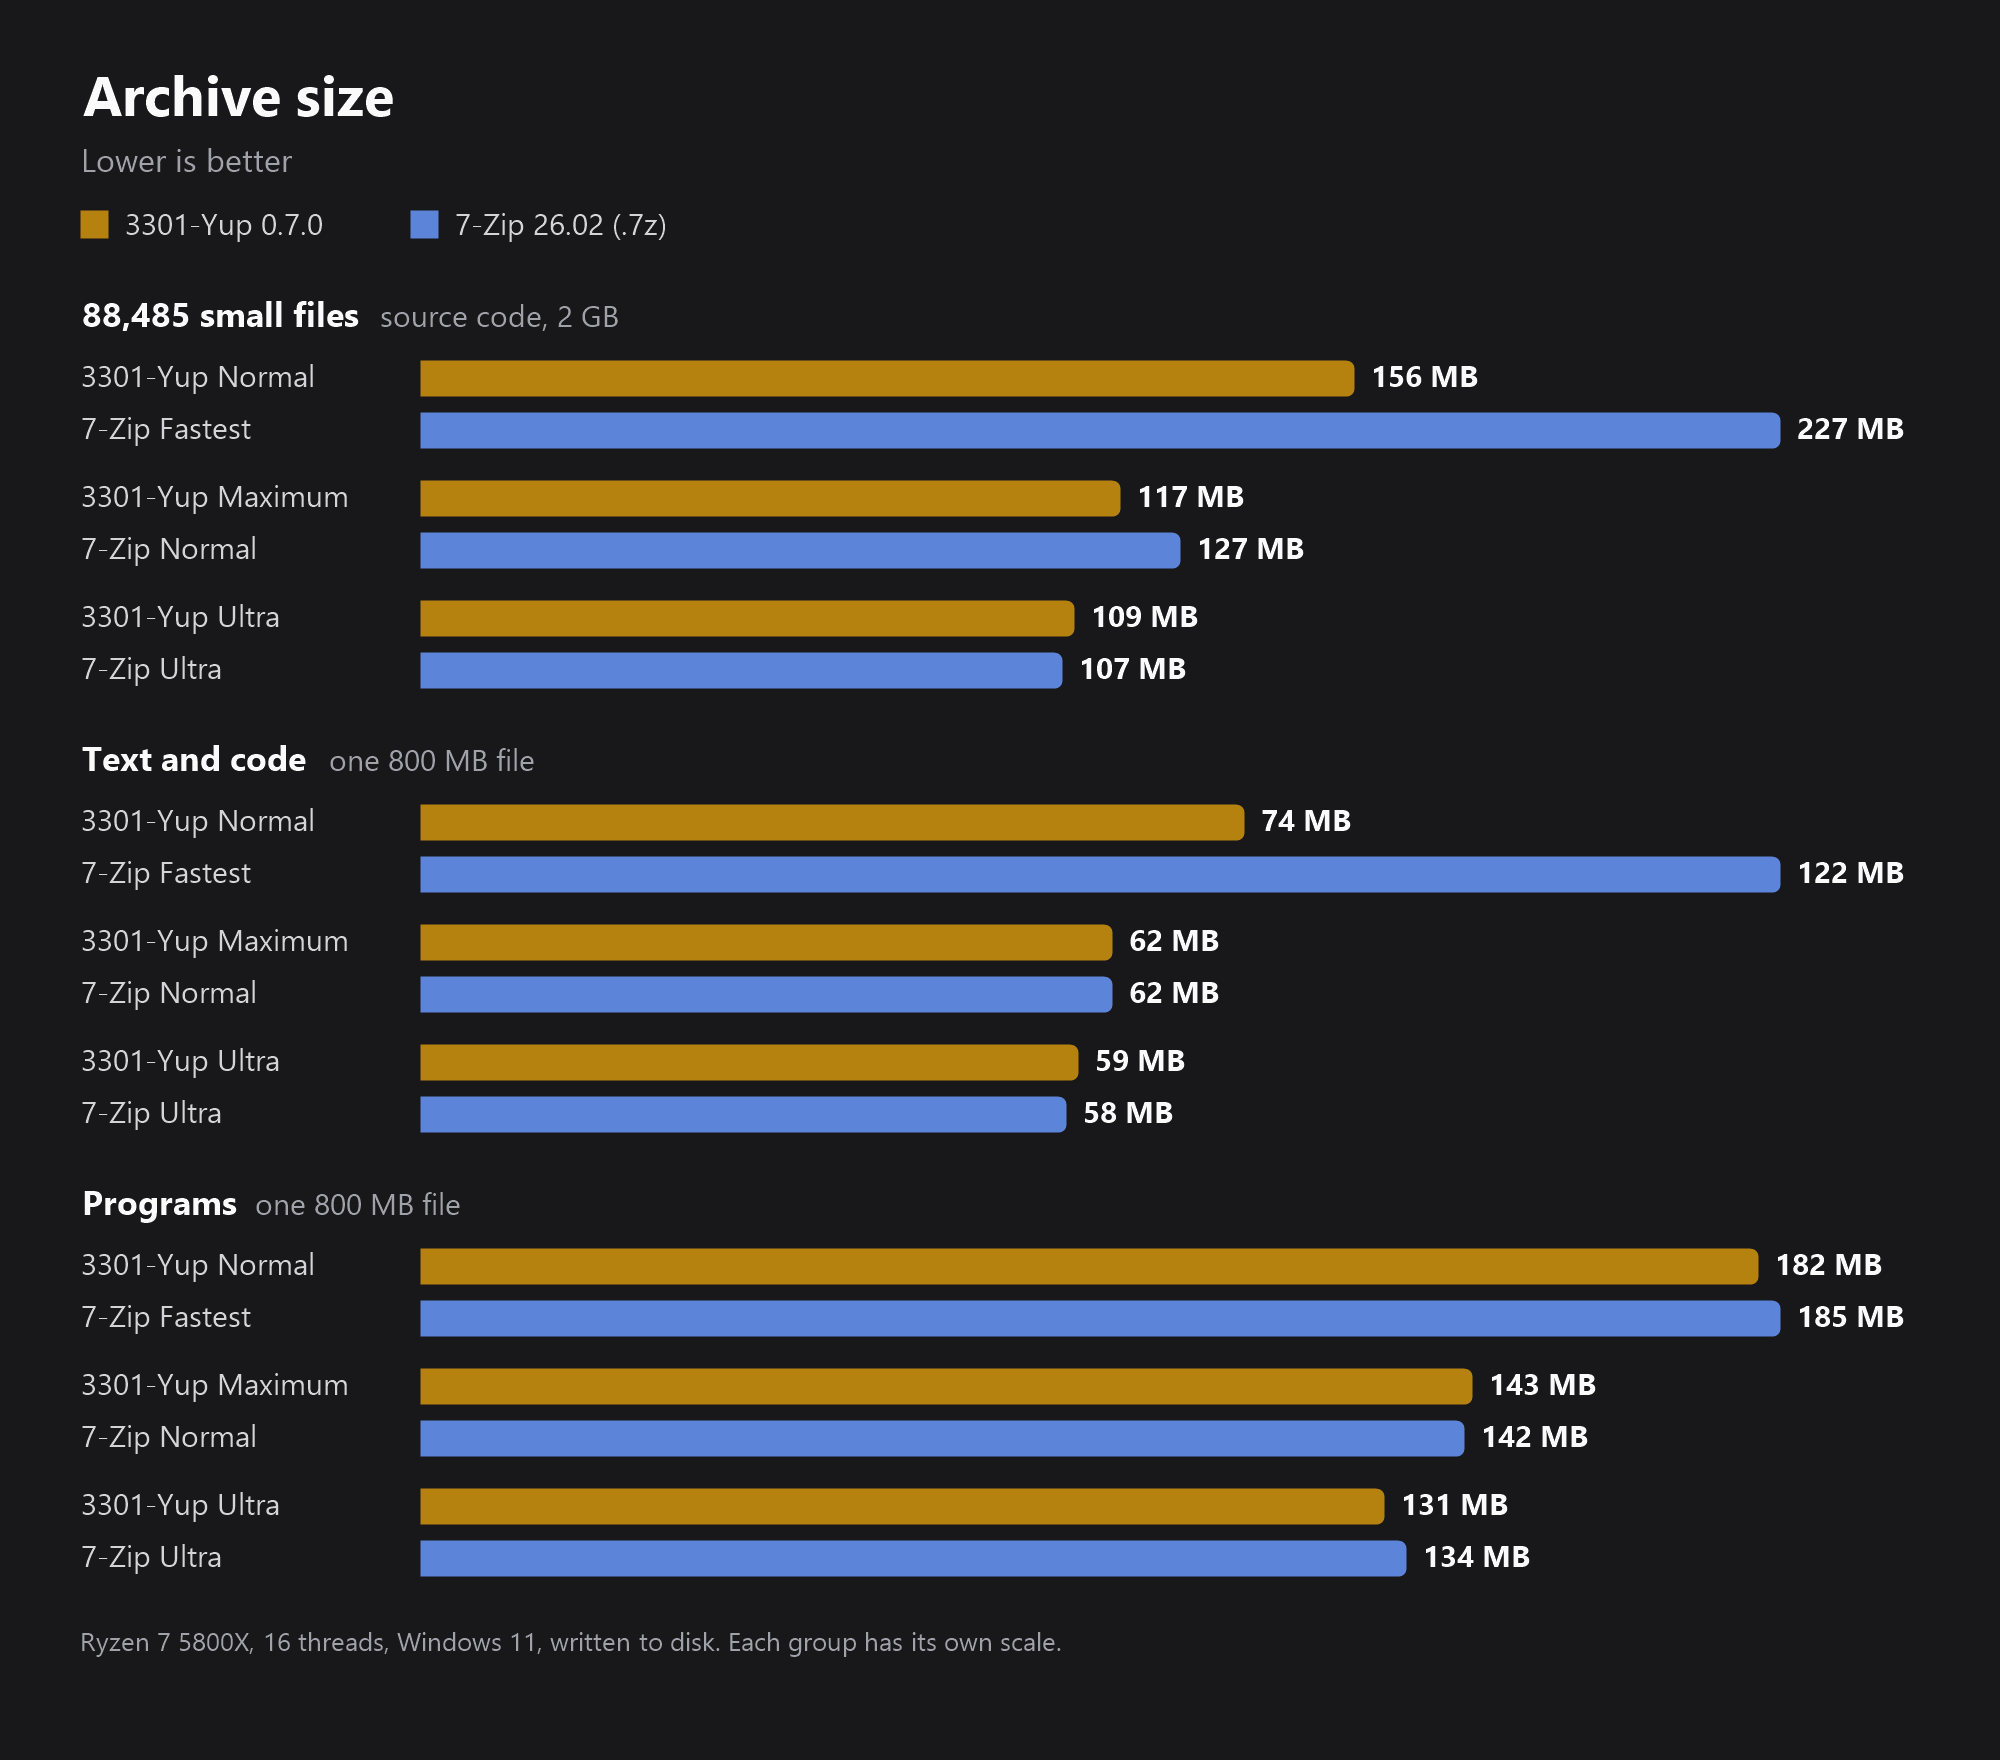
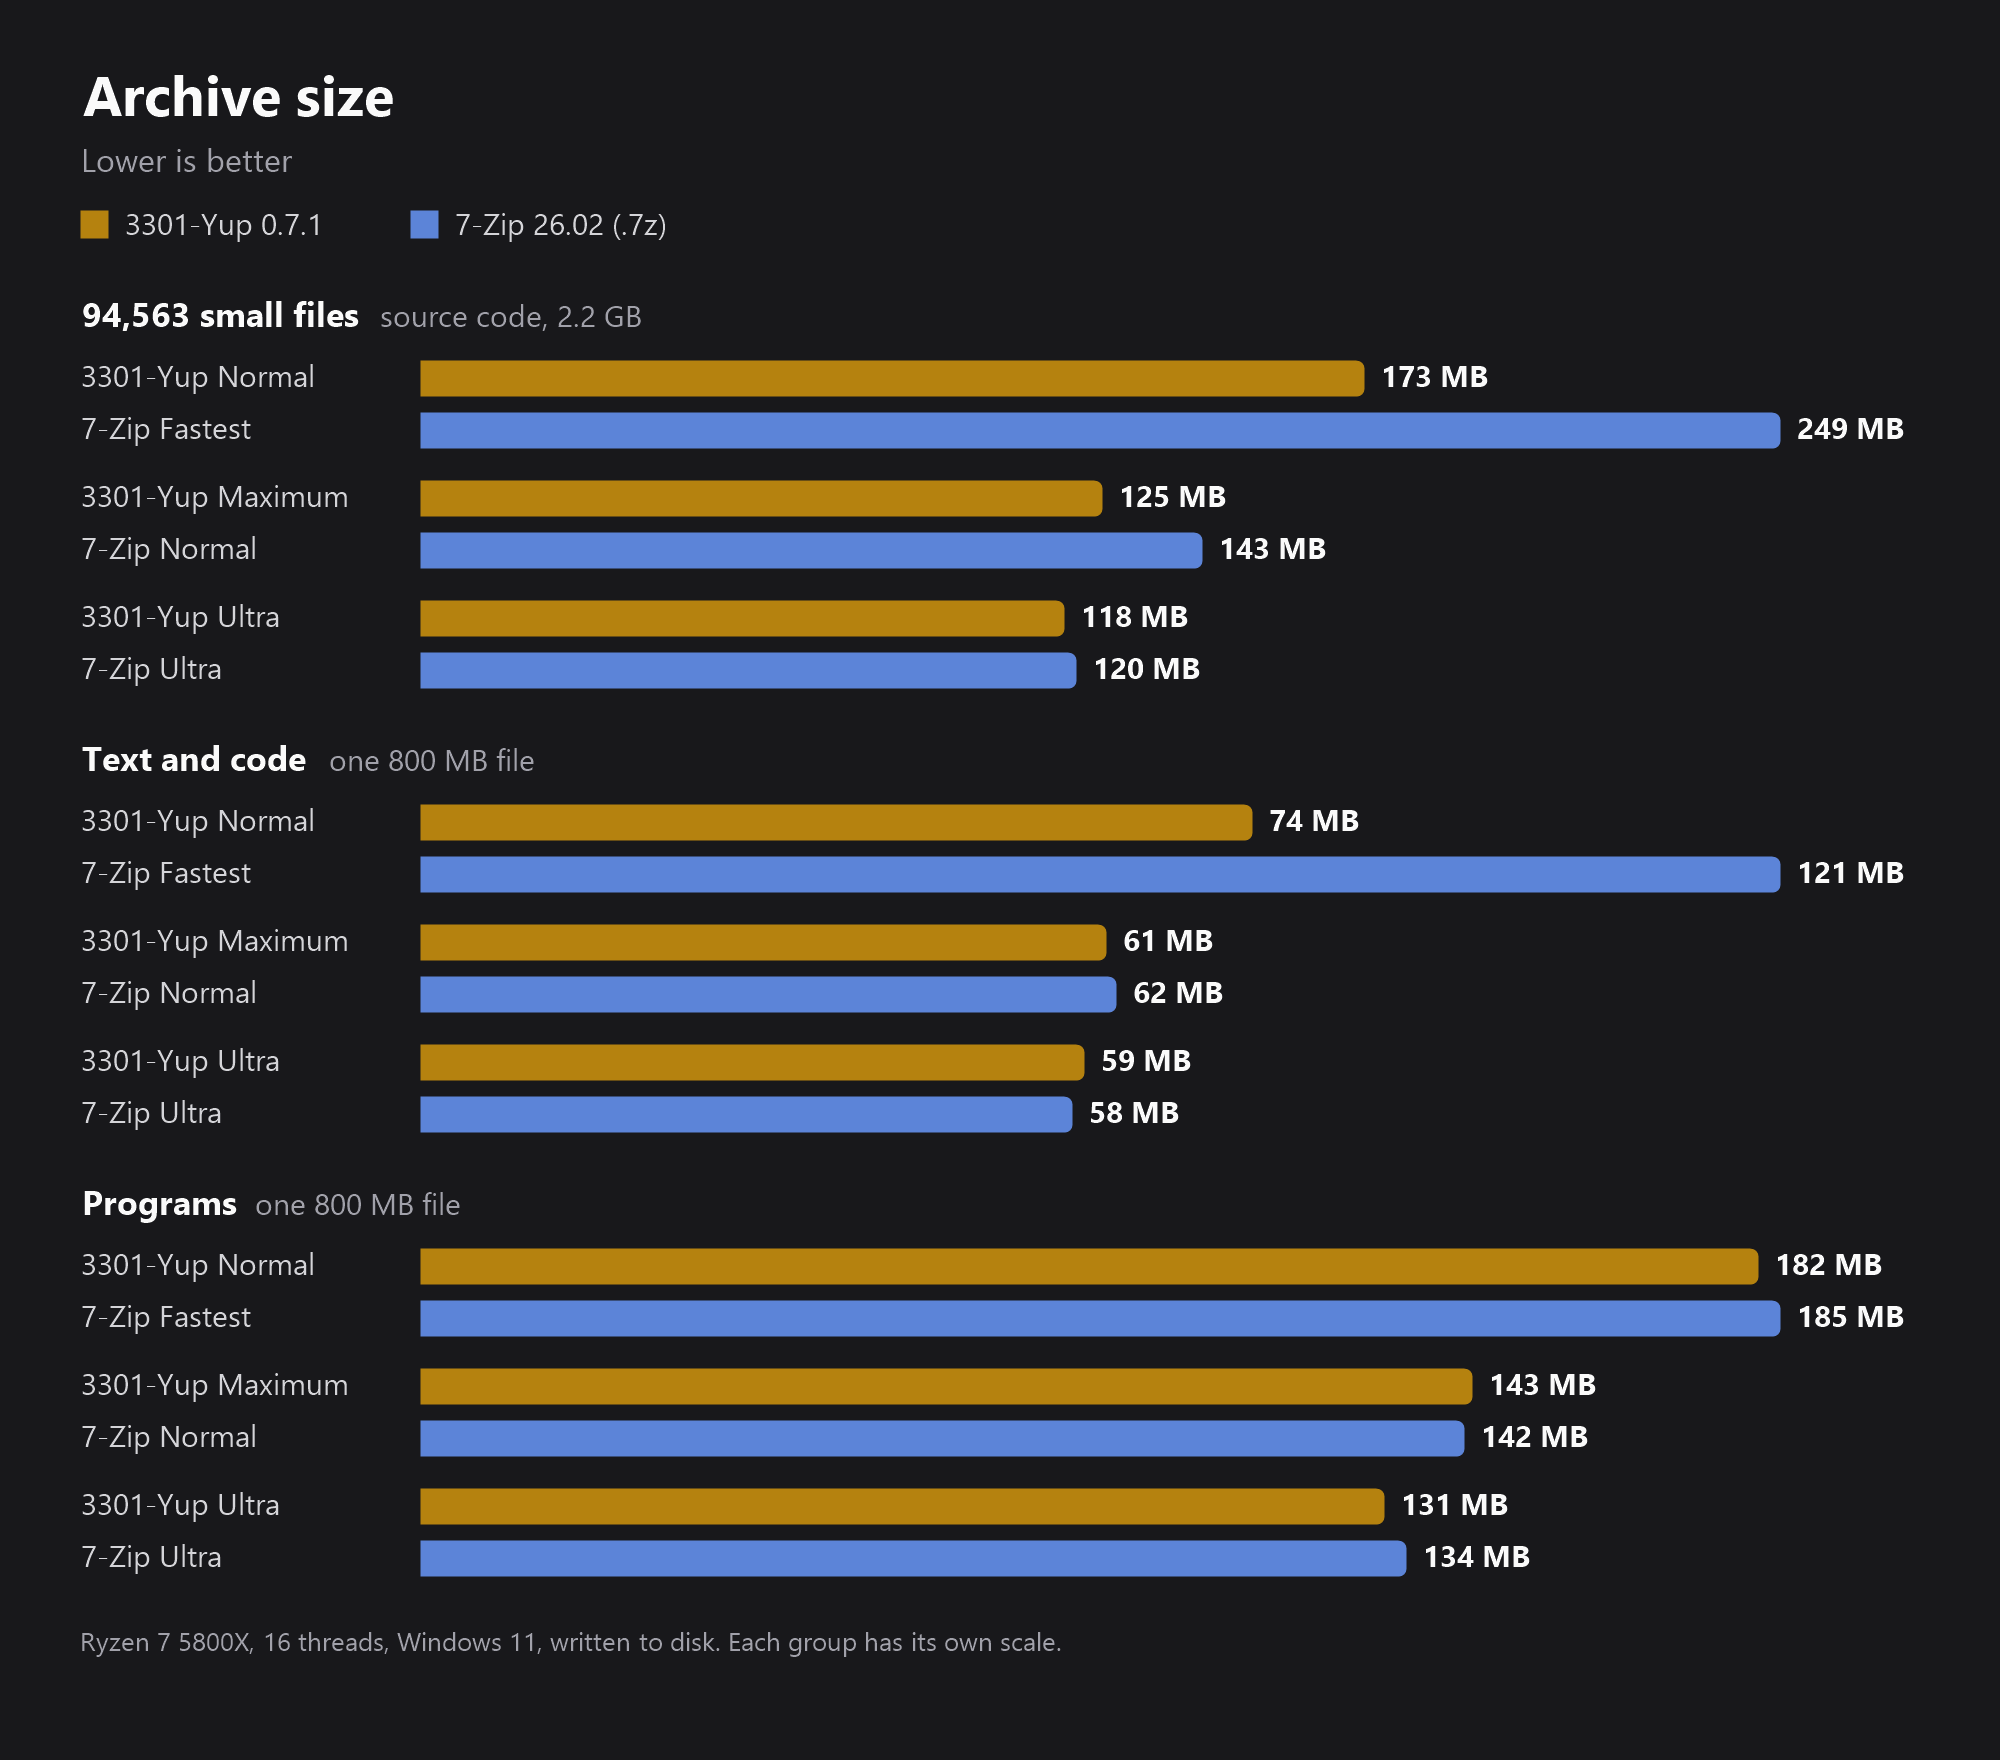
Benchmark charts and numbers for 0.7.1

diff --git a/README.md b/README.md
@@ -18,26 +18,28 @@
 
 ## ⚡ Why 3301-Yup?
 
-**The default level beats 7-Zip's fastest level on speed and on size.** 3301-Yup Normal packs **1.5 to 2.2× faster** than 7-Zip Fastest, and its archives are up to **39 % smaller**. 3301-Yup packs on every core at once, and it doesn't waste time re-squeezing photos and videos that can't get any smaller.
+**The default level beats 7-Zip's fastest level on speed and on size.** 3301-Yup Normal packs **1.5 to 2.3× faster** than 7-Zip Fastest, and its archives are up to **39 % smaller**. 3301-Yup packs on every core at once, and it doesn't waste time re-squeezing photos and videos that can't get any smaller.
 
-<p align="center"><img src="assets/speed.png" alt="Packing time on three test sets. 88,485 small files: 3301-Yup Normal 6.9 s, 7-Zip Fastest 15 s. All values are in the tables below." width="80%"></p>
+<p align="center"><img src="assets/speed.png" alt="Packing time on three test sets. 94,563 small files: 3301-Yup Normal 7.9 s, 7-Zip Fastest 18 s. All values are in the tables below." width="80%"></p>
 
-<p align="center"><img src="assets/size.png" alt="Archive size on three test sets. 88,485 small files: 3301-Yup Normal 156 MB, 7-Zip Fastest 227 MB. All values are in the tables below." width="80%"></p>
+<p align="center"><img src="assets/size.png" alt="Archive size on three test sets. 94,563 small files: 3301-Yup Normal 173 MB, 7-Zip Fastest 249 MB. All values are in the tables below." width="80%"></p>
 
 ### Unpacking
 
 | Test set | 3301-Yup | 7-Zip |
 |---|---|---|
-| 88,485 small files | 70 s | 69 s |
-| Text and code | 0.6 to 0.7 s | 0.5 to 1.1 s |
-| Programs | about 1 s | 0.6 to 2.3 s |
+| 94,563 small files | 80 to 86 s | 94 to 95 s |
+| Text and code | 0.7 to 1.0 s | 0.7 to 1.1 s |
+| Programs | 1.1 to 1.2 s | 0.7 to 2.4 s |
 
 Ranges run from the fastest to the strongest level. With many small files, most of that time is Windows creating the files.
 
 ### Where 7-Zip still wins
 
-- **Ultra on many small files:** 7-Zip packs 88,485 files in 69 s to 107 MB, 3301-Yup in 90 s to 109 MB.
-- **Unpacking many small files:** 69 s against 70 s, and its fastest level unpacks single big files a bit quicker.
+- **Ultra on many small files:** 7-Zip packs 94,563 files in 79 s, 3301-Yup takes 95 s. The archive is 2 MB smaller with 3301-Yup (118 MB against 120 MB).
+- **Ultra on text and code:** 7-Zip's archive is 1 MB smaller (58 MB against 59 MB), but it takes 61 s against 38 s.
+- **CPU work at Ultra:** 7-Zip uses 15 to 25 % less CPU time in total. 3301-Yup finishes sooner on big files because it uses more cores at once, and it needs far less RAM: 3 GB against 22 GB on the small files.
+- **Unpacking single big files:** 7-Zip's fastest level is a bit quicker.
 - **Maximum against 7-Zip Normal** is faster on all three sets, but a tie on size for text and code, and 1 MB behind for programs.
 
 Photos and videos barely shrink in any program. Your files will give different numbers.
@@ -45,9 +47,9 @@ Photos and videos barely shrink in any program. Your files will give different n
 <details>
 <summary>How this was measured</summary>
 
-One PC: Ryzen 7 5800X, 16 threads, Windows 11, nothing else running. 3301-Yup 0.7.0 against 7-Zip 26.02 as `.7z` at Fastest (mx1), Normal (mx5, its default) and Ultra (mx9). Real writes to disk, and each 3301-Yup archive was unpacked and compared byte for byte.
+One PC: Ryzen 7 5800X, 16 threads, Windows 11, nothing else running. 3301-Yup 0.7.1 against 7-Zip 26.02 as `.7z` at Fastest (mx1), Normal (mx5, its default) and Ultra (mx9). Real writes to disk, and each 3301-Yup archive was unpacked and compared byte for byte.
 
-- **88,485 small files:** the source code of Rust crates, 2 GB
+- **94,563 small files:** the source code of Rust crates, 2.2 GB
 - **Text and code:** the same kind of files plus documentation joined into one 800 MB file
 - **Programs:** Rust toolchain files joined into one 800 MB file
 
